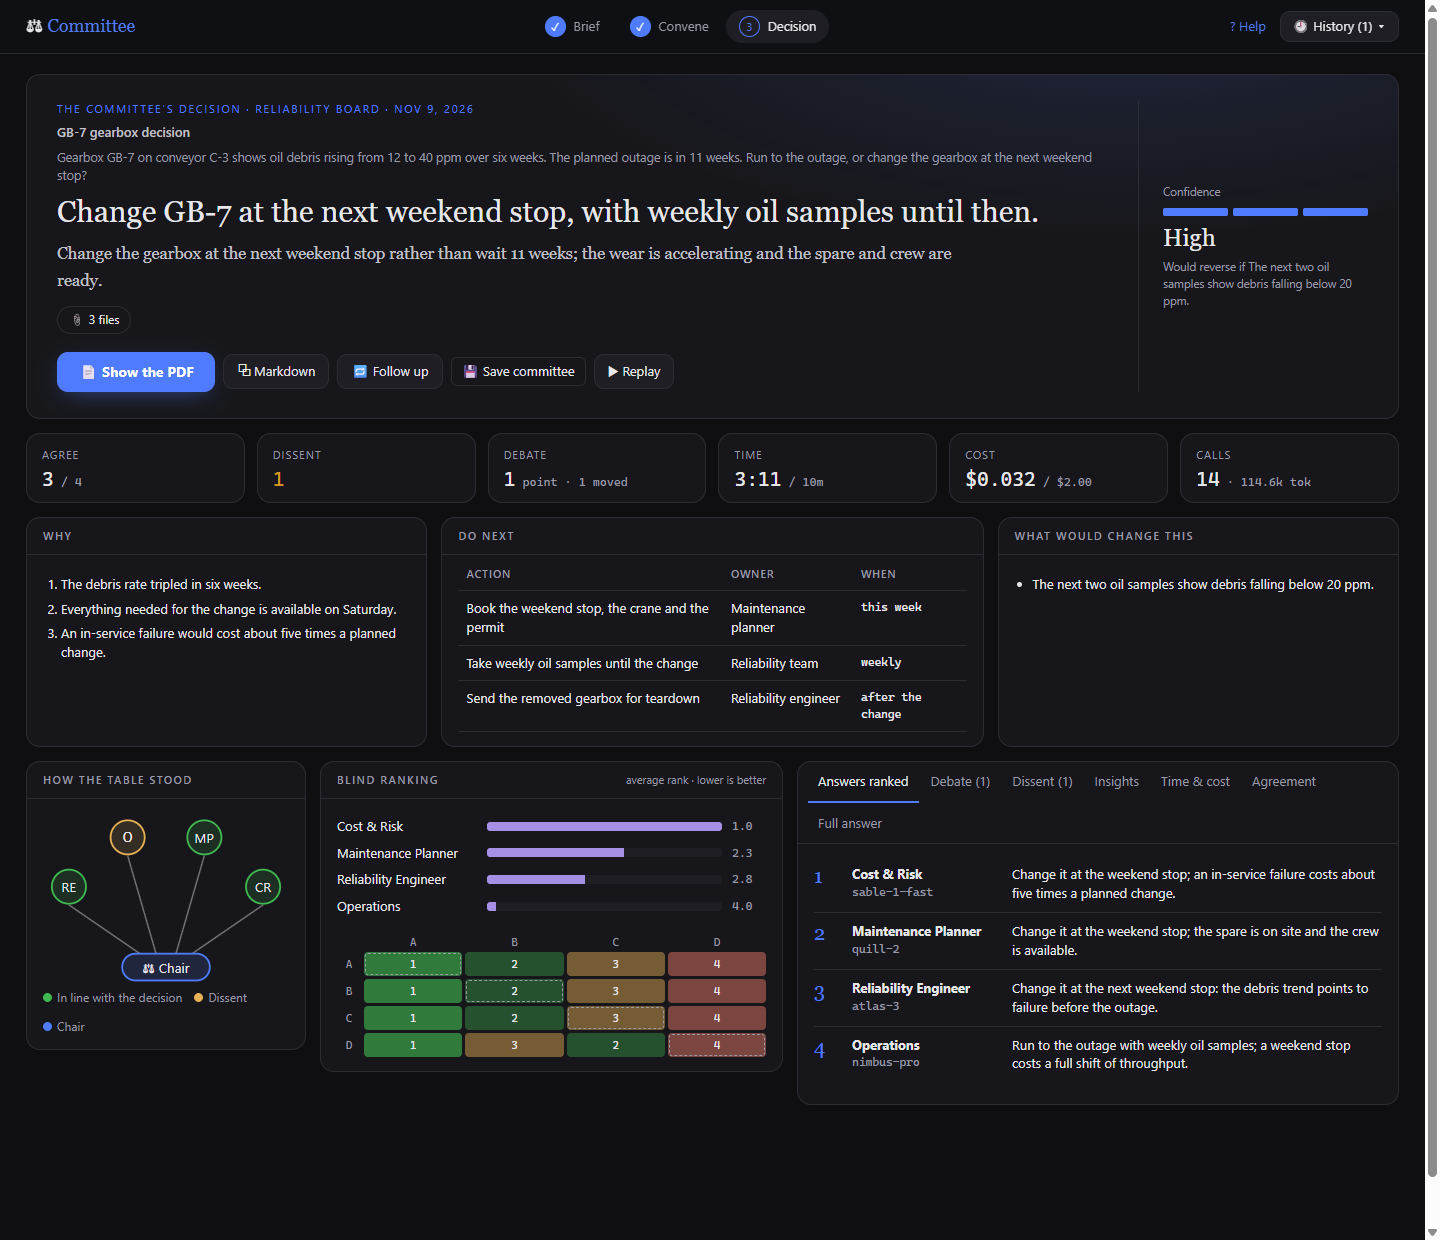
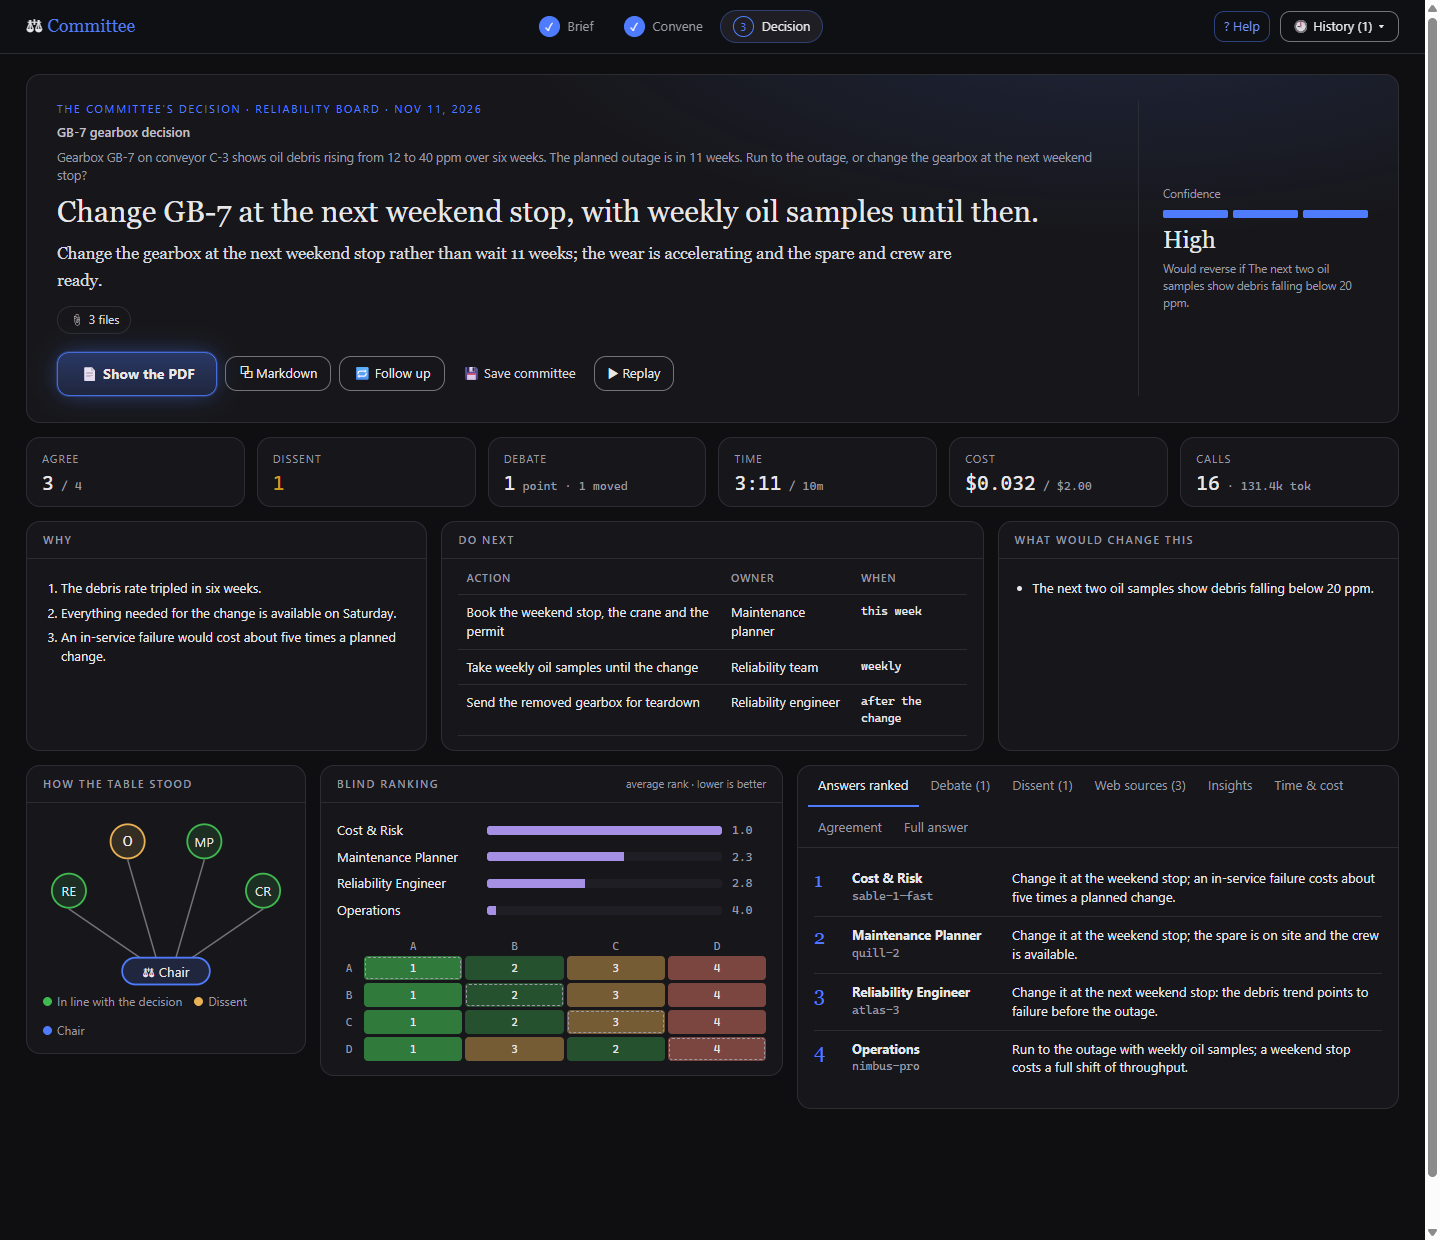
README: 0.4.0 screenshots (evidence box, Research first, web sources, thinking control) and captions

diff --git a/README.md b/README.md
@@ -10,8 +10,8 @@ decision, its dissent, next actions and a PDF report.
 
 | 1 · Brief | 2 · Convene | 3 · Decision |
 |---|---|---|
-| [![The brief: question, evidence and the committee's seats](docs/images/brief.png)](docs/images/brief.png) | [![Convene: the seats on an arc, the chairman's bench, stages, timeline and live log](docs/images/convene.png)](docs/images/convene.png) | [![Decision: the ruling, figures, next actions with owners, and how the table stood](docs/images/decision.png)](docs/images/decision.png) |
-| Ask, add evidence, pick a model and instructions for each seat. | Watch the answers, the blind vote and the debate as they happen. | The verdict, its confidence, next actions, dissent and the ranking. |
+| [![The brief: question, evidence, Research first, and the committee's seats with one open for editing](docs/images/brief.png)](docs/images/brief.png) | [![Convene: the evidence box with files and web sources over the table, seats on an arc debating, the chairman's bench, timeline and live log](docs/images/convene.png)](docs/images/convene.png) | [![Decision: the ruling, figures, next actions with owners, and how the table stood](docs/images/decision.png)](docs/images/decision.png) |
+| Ask, add evidence, switch on Research first, and give each seat a model, instructions and a thinking level. | Watch the research, the answers, the blind vote and the debate as they happen. | The verdict, its confidence, next actions, dissent and the ranking. |
 
 <sub>Screenshots use an invented example and invented model names.</sub>
 
